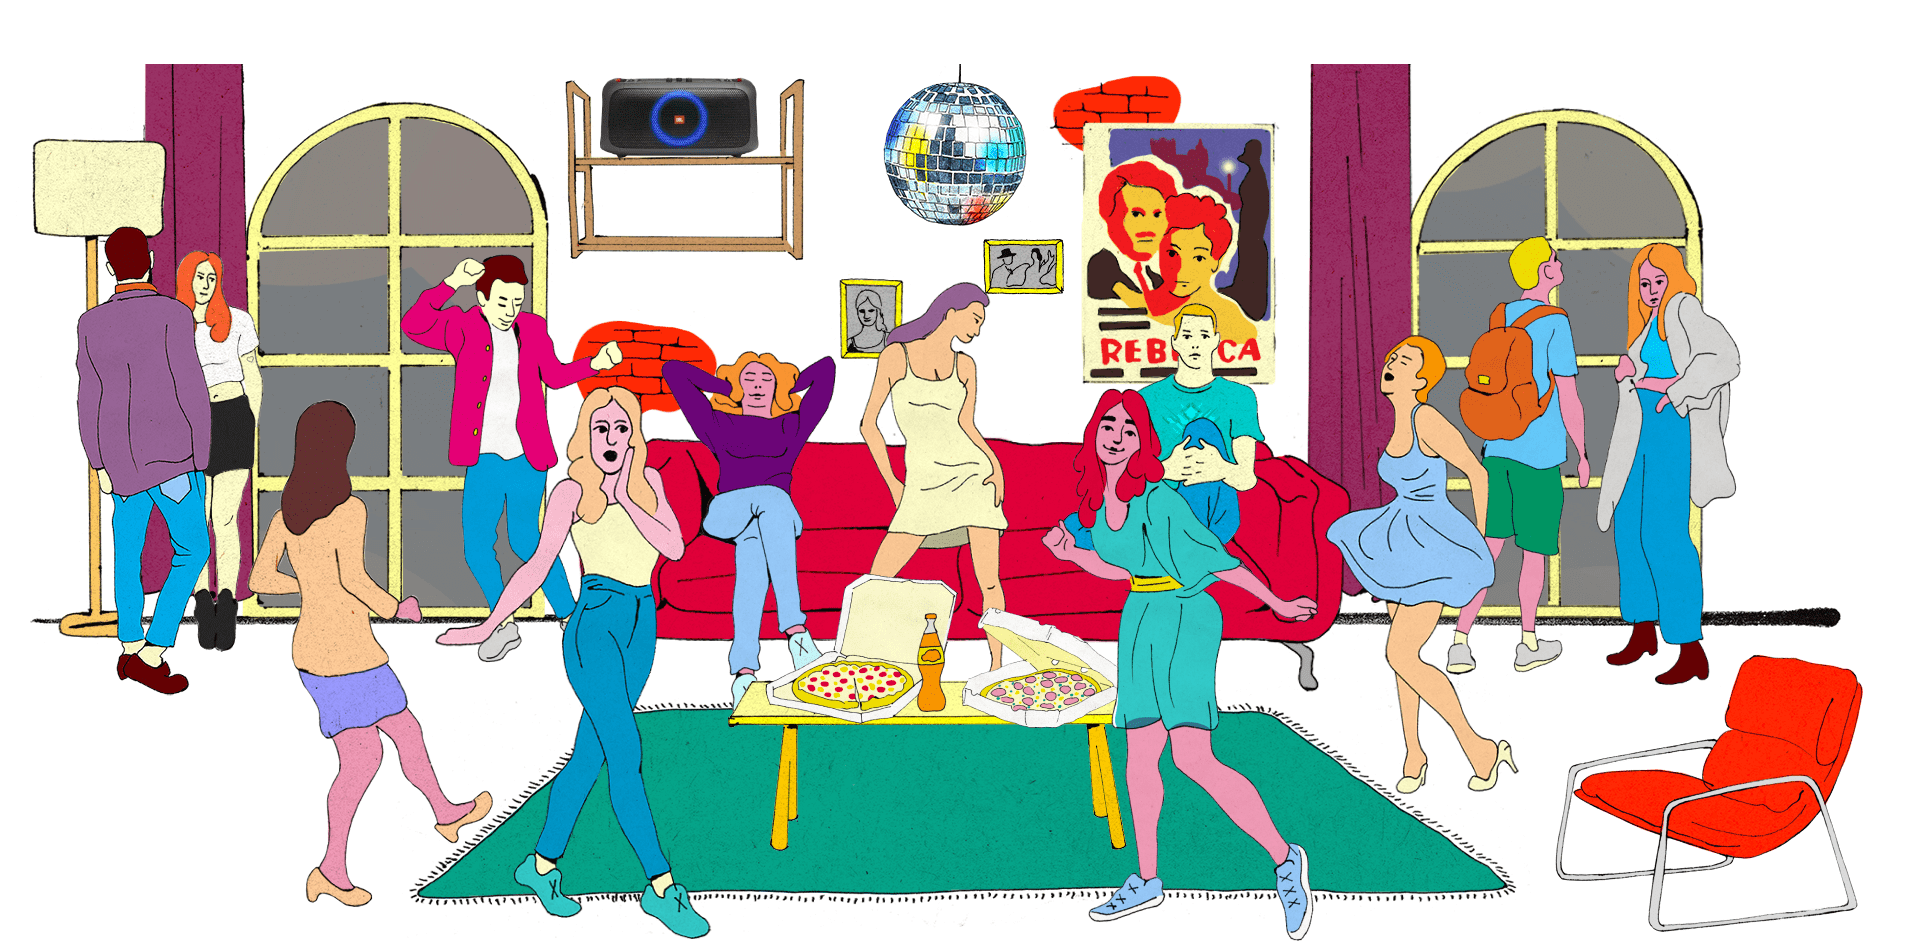
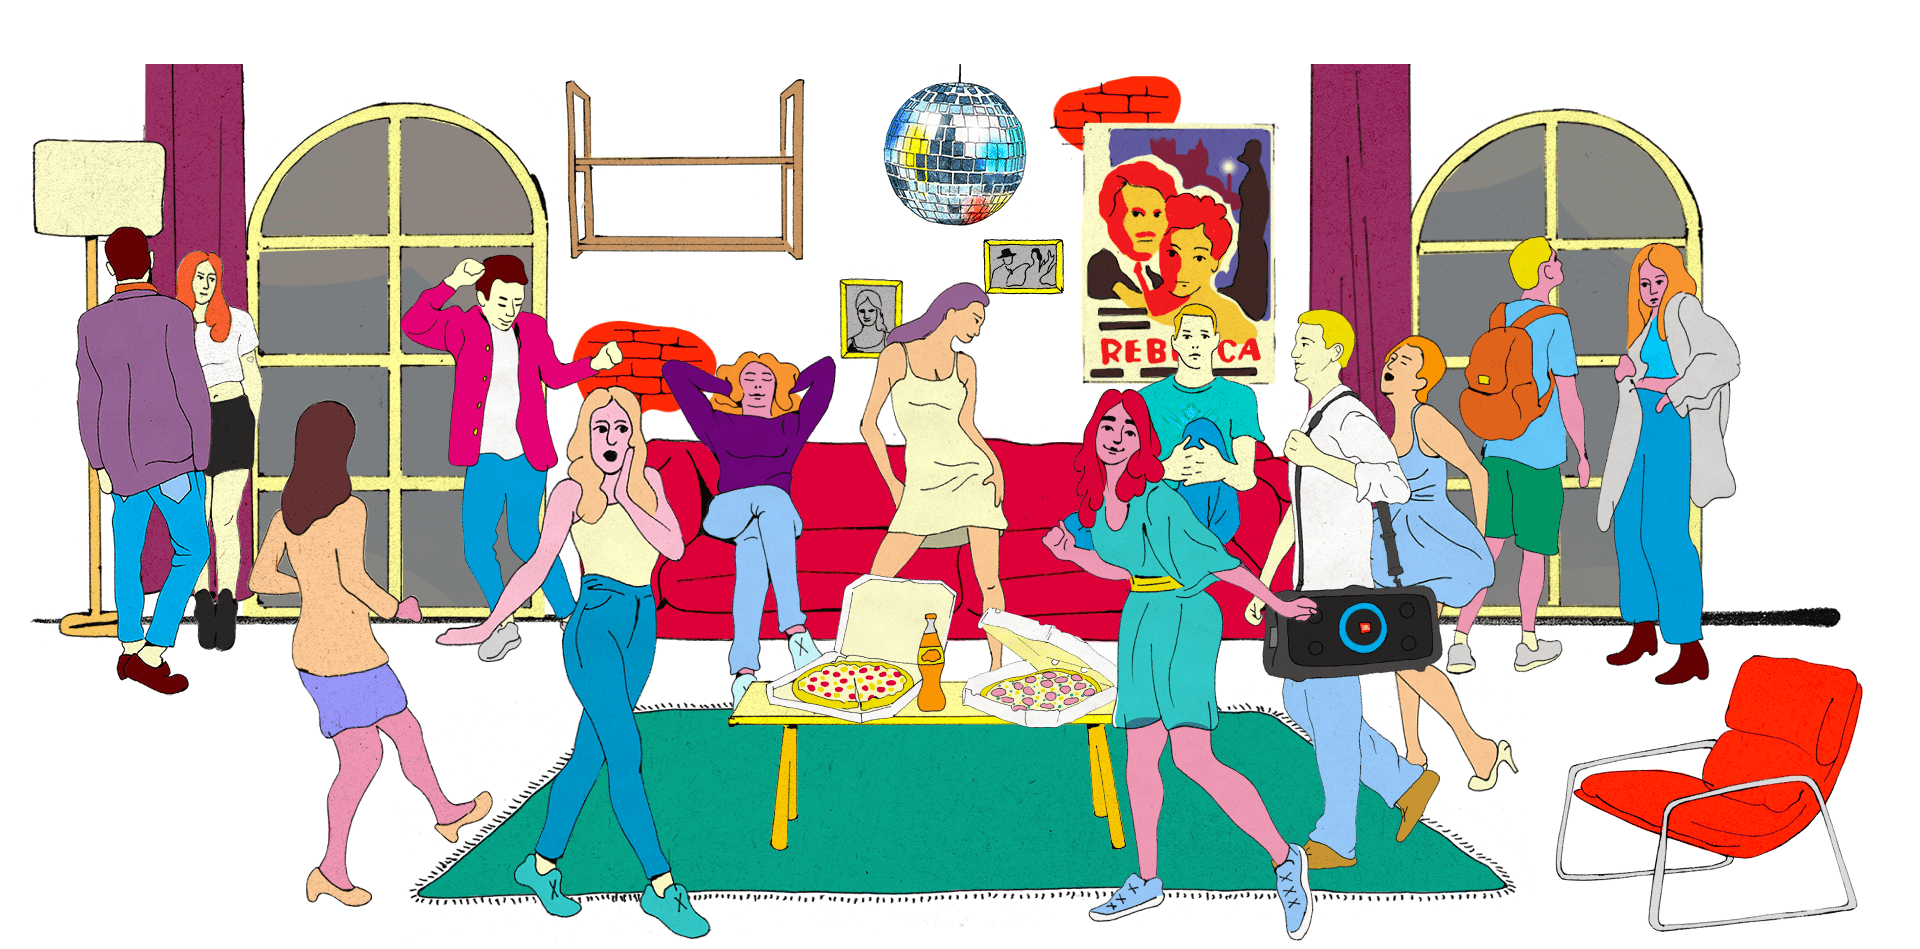
Change level 5

diff --git a/src/components/Game/levelsData.js b/src/components/Game/levelsData.js
@@ -87,16 +87,17 @@ const levels = [
             { id: 42, style: { left: '83.6em', top: '21.5em', width: '16.6em', height: '43.2em' } },//Девушка в белом коротком платье
             { id: 29, style: { left: '143.2em', top: '16.8em', width: '14.6em', height: '43.8em' } },//Парень с рюкзаком
             { id: 43, style: { left: '131.2em', top: '26.6em', width: '19.4em', height: '45.9em' } },//Девушка в коротком голубом платье
+            { id: 30, style: { left: '123.1em', top: '24em', width: '20.2em', height: '56.2em' } },//Парень не гиф с колокой на плече
             { id: 32, style: { left: '23.7em', top: '32.7em', width: '26.4em', height: '52.1em' } }, //Девушка спиной
             { id: 44, style: { left: '43em', top: '31.5em', width: '27.7em', height: '55.5em' } }, //Удевленная девушка не gif
             { id: 45, style: { left: '71.4em', top: '50.3em', width: '44.9em', height: '28.7em' } }, //Стол не gif
             { id: 34, style: { left: '103.1em', top: '31.9em', width: '27.9em', height: '55.5em' } }, //Девушка в зеленом платье
-            { id: 31, style: { left: '59.2em', top: '3.5em', width: '11.8em', height: '6em' } }, //Колонка
+            // { id: 31, style: { left: '59.2em', top: '3.5em', width: '11.8em', height: '6em' } }, //Колонка
         ],
         animateMinus: [
             { id: 28, style: { left: '37.1em', top: '18.5em', width: '22.9em', height: '42.1em' } },//Парень в розовой рубашке
             { id: 29, style: { left: '143.2em', top: '16.8em', width: '14.6em', height: '43.8em' } },//Парень с рюкзаком
-            { id: 31, style: { left: '59.2em', top: '11.8em', width: '11.8em', height: '6em' } }, //Колонка
+            // { id: 31, style: { left: '59.2em', top: '11.8em', width: '11.8em', height: '6em' } }, //Колонка
             { id: 32, style: { left: '23.7em', top: '32.7em', width: '26.4em', height: '52.1em' } }, //Девушка спиной
         ]
     },

diff --git a/src/context.js b/src/context.js
@@ -26,7 +26,7 @@ export default function ContextProvider({ children }) {
     const [em, setEm] = useState(getEm());
     const [globalHeight, setGlobalHeight] = useState(getHeight());
     const [screen, setScreen] = useState('start');//start / game / final
-    const [level, setLevel] = useState(0); //4 //0-9
+    const [level, setLevel] = useState(0); //5 //0-9
     const [yesno, setYesNo] = useState(null);
     const [isMobale, setIsMobale] = useState(getIsMobile());
     const [imgsLoaded, setImgsLoaded] = useState(false);
